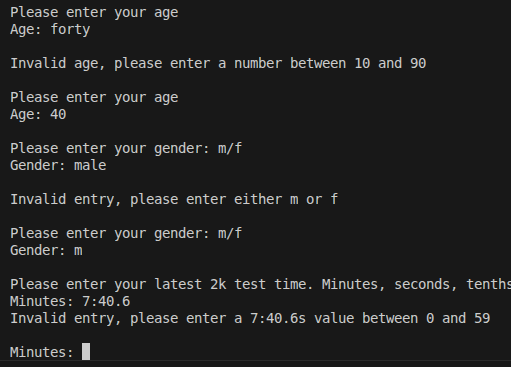
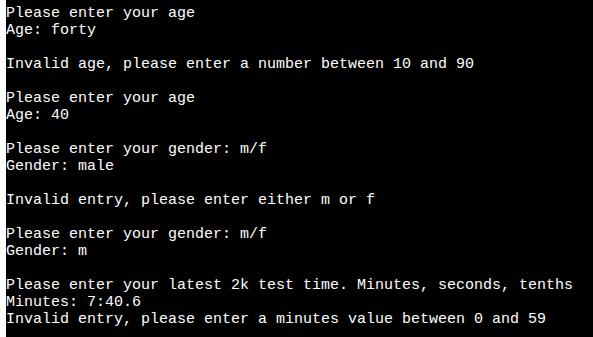
Update readme with some future features

Changed region(s): [[0.0, 0.0, 1.0, 1.0]]

diff --git a/README.md b/README.md
@@ -161,20 +161,14 @@ Source: [Mermaid Flowchart for Row Assist](https://mermaid.ai/app/projects/212e9
 
 ### Future Features
 
-⚠ INSTRUCTIONS ⚠
-
-Do you have additional ideas that you'd like to include on your project in the future? Fantastic, list them here! It's always great to have plans for future improvements. Consider adding any helpful links or notes to help remind you in the future, if you revisit the project in a couple years.
-
-A few examples are listed below to align with possible ways to improve on the sample walkthrough project, to give you some inspiration.
-
-⚠ --- END ---⚠
-
-- **User Authentication and Role Management**: Implement a login system with roles (e.g., admin, employee) to restrict data access based on user roles.
-- **Data Visualization**: Add charts and graphs to visually represent sales trends, stock levels, and surplus/waste over time.
-- **Real-time Data Sync**: Integrate real-time syncing of sales and stock data across multiple devices to support live updates.
-- **Automated Restocking Alerts**: Notify users when stock levels fall below a certain threshold, prompting restock orders.
-- **Predictive Analytics**: Use historical sales data to predict future demand, helping to optimize stock levels and minimize waste.
-- **Multilingual Support**: Add support for multiple languages to make the app more accessible to a global audience.
+- **Basic History Storage**: Create a way to store the user's row time and access
+- **Performance progression comparison**: Provide user feedback based on past performances  
+- **Data Visualization**: Add charts and graphs to visually represent performance trends.
+- **Add Multiple Distance Options**: Allow the user to input the row distance instead of only 2000m.
+- **Add User Weight Category**: Allow user to specify weight category for fairer comparisons.
+- **User Profile Creation**: Allow users to create a profile to store their age, gender and weightclass (if applicable) as well as their row performance history.
+- **Profile Access**: Allow users to access and update their profiles.
+- ⚠-- Continue from here, predictive analytics and languages could've stayed so put back in --⚠
 - **Mobile App Integration**: Develop a mobile version of the app for easier data input and stock management on the go.
 - **Reporting and Exporting**: Generate and export detailed reports in PDF or CSV format for deeper analysis of sales, surplus, and stock data.
 - **Inventory Management**: Include functionality to track supplier information, order inventory, and manage costs directly within the app.
